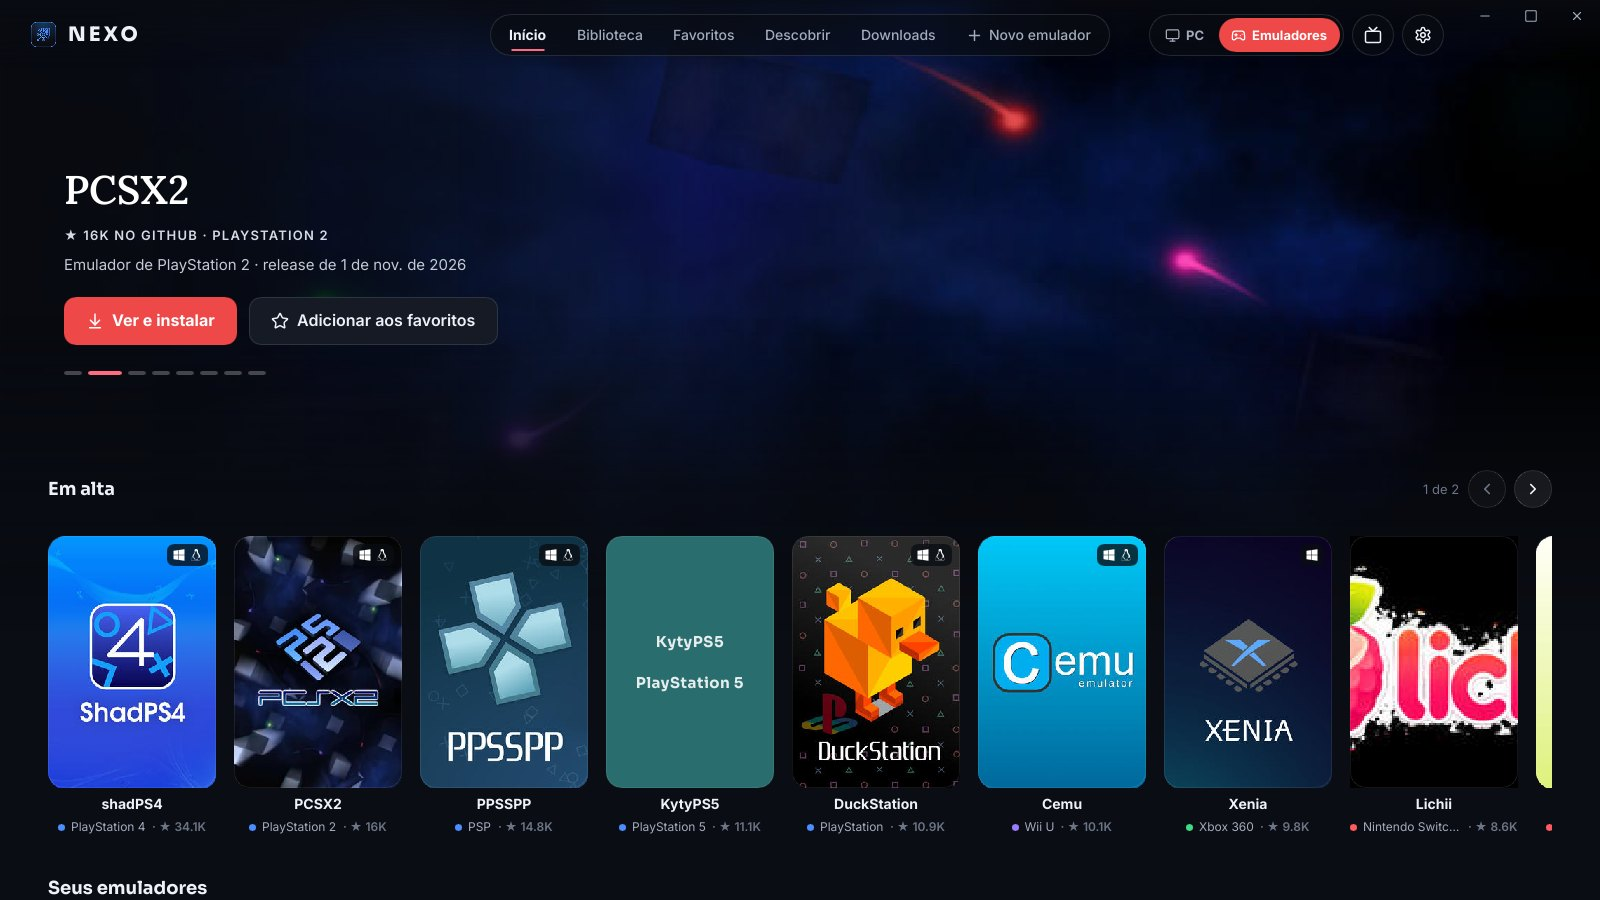
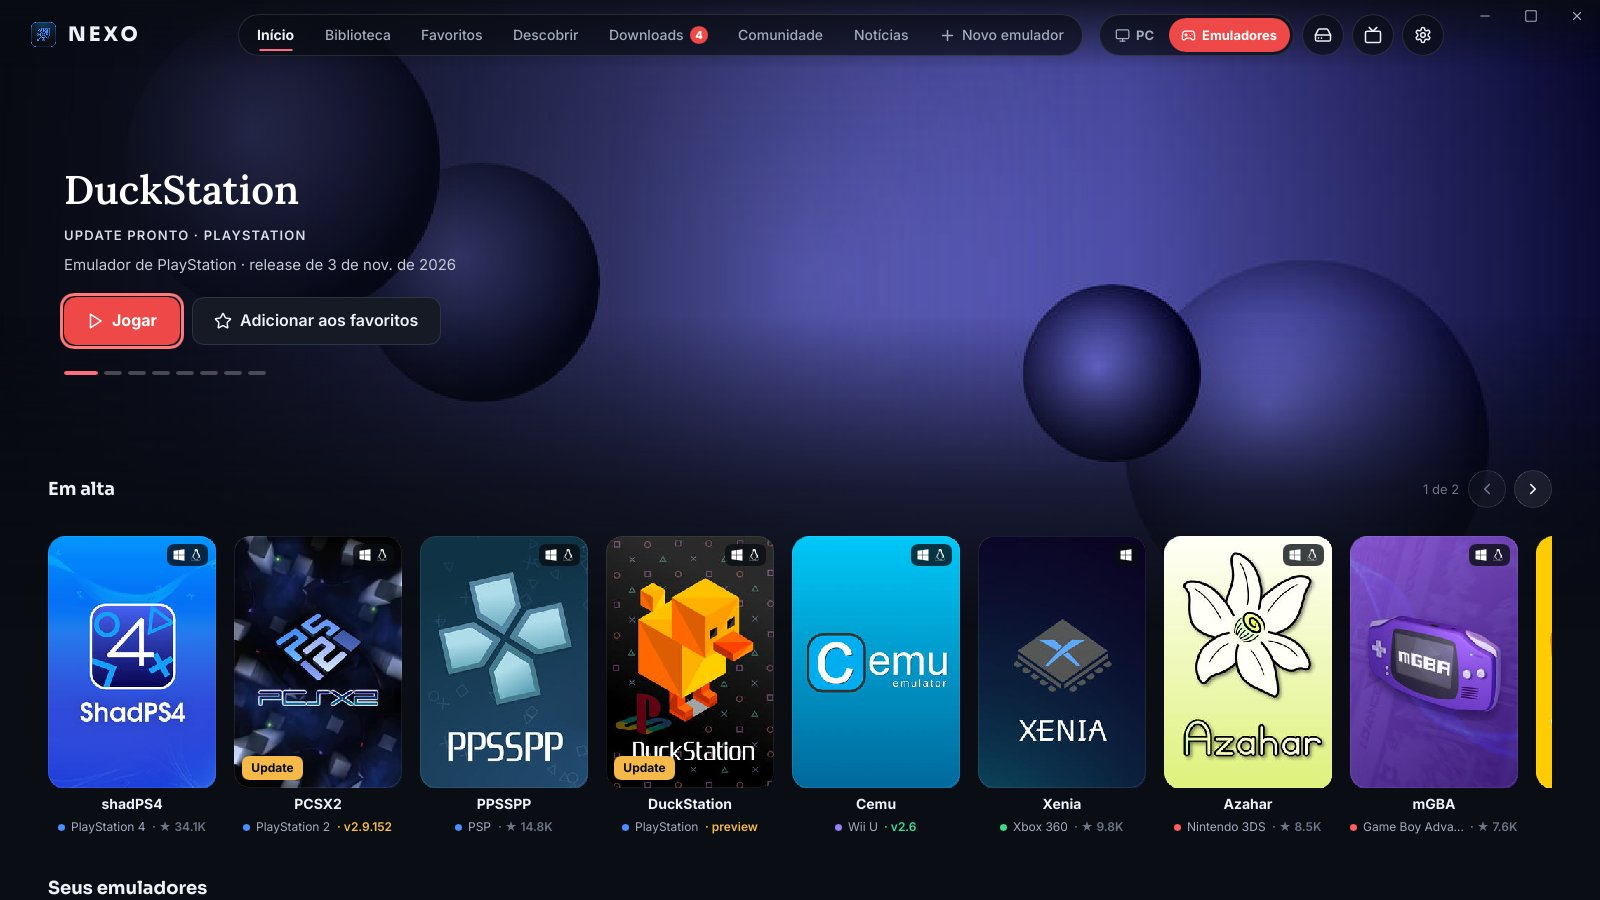
Nexo 1.5.0: aba Armazenamento e capturas novas

diff --git a/README.md b/README.md
@@ -28,7 +28,8 @@ atualizar e preparar o jogo.
 
 O **Nexo** junta tudo isso num launcher leve, para Windows e Linux:
 
-- um **catálogo com mais de 1.700 projetos** e mais de 20 emuladores, com capa, banner e estrelas;
+- um **catálogo com mais de 2.800 projetos de mais de 1.700 jogos** e mais de 20 emuladores, com capa,
+  banner e estrelas;
 - **instala e atualiza com um clique**, baixando sempre da release oficial de quem fez o projeto;
 - confere o **SHA-256** de cada arquivo e **nunca apaga os seus saves**;
 - tem **modo TV** com controle, para jogar no sofá ou no Steam Deck.
@@ -71,6 +72,15 @@ Codeberg e outros Forgejo/Gitea, para recomps, ports e emuladores.
 - **Adicionar à Steam** com a capa do jogo: o atalho abre pelo Nexo, com versão, Proton e tempo de jogo.
 - No Linux, jogos de Windows rodam pelo **Proton, umu-run ou Wine**.
 
+**Espaço em disco**
+- Guia **Armazenamento**: quanto o Nexo ocupa em cada disco, jogo por jogo e versão por versão, com
+  o caminho de cada pasta. Uma barra por disco separa jogos de PC, emuladores, versões antigas, saves,
+  downloads e o que é de outros programas.
+- **Detalhes de qualquer pasta**, como num analisador de disco: do maior para o menor, até o arquivo.
+- **Sugestões de limpeza** que nunca tocam nos saves: versões antigas que saem sem perder nada seu,
+  downloads guardados e sobras de instalações. Antes de apagar, a lista do que vai sair.
+- Antes de baixar, confere se o jogo cabe no disco.
+
 **Coleções e notícias**
 - **Coleções por franquia**: mais de 130 séries (Zelda, Mario, Sonic, Resident Evil...), cada uma
   com os seus jogos e, em cada jogo, os recomps e ports que existem.
@@ -93,16 +103,22 @@ Codeberg e outros Forgejo/Gitea, para recomps, ports e emuladores.
 | Descobrir | Página do jogo |
 |---|---|
 | ![Descobrir](docs/capturas/descobrir.jpg) | ![Página do jogo](docs/capturas/jogo.jpg) |
-| **Emuladores** | **Downloads** |
-| ![Emuladores](docs/capturas/inicio-emuladores.jpg) | ![Downloads](docs/capturas/downloads.jpg) |
+| **Biblioteca** | **Downloads** |
+| ![Biblioteca](docs/capturas/biblioteca.jpg) | ![Downloads](docs/capturas/downloads.jpg) |
+| **Coleções** | **Notícias** |
+| ![Coleções](docs/capturas/colecoes.jpg) | ![Notícias](docs/capturas/noticias.jpg) |
+| **Emuladores** | **Modo TV** |
+| ![Emuladores](docs/capturas/inicio-emuladores.jpg) | ![Modo TV](docs/capturas/modo-tv.jpg) |
 
 **Todos os projetos de um jogo, do mais recomendado ao menos**
 
 ![Projetos de um jogo](docs/capturas/projetos.jpg)
 
-**Modo TV**
+**Armazenamento: quanto cada jogo ocupa e o que dá para liberar**
 
-![Modo TV](docs/capturas/modo-tv.jpg)
+![Armazenamento](docs/capturas/armazenamento.jpg)
+
+![Armazenamento, jogo por jogo](docs/capturas/armazenamento-jogos.jpg)
 
 ## Como instalar
 
@@ -161,7 +177,7 @@ abra uma *issue* aqui.
 ## Linha de comando
 
 Junto vem o `nexo-cli`, para scripts e servidores: `nexo-cli ajuda` lista tudo. Os principais são `lista`,
-`instalar <id>`, `verificar`, `atualizar`, `jogar <id>` e `remover <id>`.
+`instalar <id>`, `verificar`, `atualizar`, `jogar <id>`, `remover <id>` e `espaco`.
 
 ## Créditos e licença
 

diff --git a/CHANGELOG.md b/CHANGELOG.md
@@ -6,6 +6,46 @@ O Nexo instalado avisa quando sai uma versão nova e só atualiza com o seu OK.
 
 *English summary at the end of each version.*
 
+## [1.5.0] — 16/11/2026
+
+### Novidades
+- **Armazenamento**: nova guia (o botão de disco na barra de cima) que mostra quanto o Nexo ocupa em
+  cada disco, jogo por jogo e versão por versão.
+  - **Por disco**: uma barra para cada disco com o que é jogo de PC, emulador, versão antiga, saves e
+    backups, downloads e dumps, o que é de outros programas e o espaço livre.
+  - **Jogo por jogo**: os projetos do mesmo jogo ficam juntos. Abrindo um jogo, aparece cada versão
+    (a em uso e as antigas), o preparo e o jogo montado, os backups dos saves e o resto da pasta, com
+    o caminho, o tamanho e quantos arquivos tem. Filtro por jogos de PC ou emuladores.
+  - **Detalhes de uma pasta**, como num analisador de disco: o que tem dentro, do maior para o
+    menor, entrando nas subpastas até o arquivo, e o botão para abrir a pasta.
+  - **Sugestões de limpeza**: versões antigas que saem sem perder nada seu, downloads guardados,
+    downloads que pararam no meio e sobras de instalações interrompidas. Nada sai sem uma janela
+    mostrando antes a lista do que vai ser apagado, e os saves nunca entram.
+  - Também mostra as pastas que não são de nenhum jogo instalado (sobras de jogos desinstalados) e
+    um jogo que ficou com pastas em dois lugares depois de a biblioteca mudar de disco. Essas o Nexo
+    só mostra: você abre e decide.
+  - A medição roda em segundo plano e fica guardada: a guia abre na hora e mede de novo quando a
+    biblioteca muda ou no botão **Medir de novo**.
+- `nexo-cli espaco`: o mesmo relatório na linha de comando.
+
+### Melhorias
+- **Aviso de pouco espaço**: antes de baixar, o Nexo confere se cabem o download e o jogo
+  extraído. Se não couber, avisa na hora, em vez de o download falhar no meio.
+
+### English
+New **Storage** tab (the drive button on the top bar): how much Nexo takes up on each drive, game by
+game and version by version. A bar per drive splits PC games, emulators, old versions, saves and
+backups, downloads and dumps, other programs and free space. **Game by game** groups each game's
+projects and lists every version (in use and old), preparation data, save backups and the rest of
+the folder, with path, size and file count, filtered by PC games or emulators. **Folder details**
+work like a disk analyzer: contents from largest to smallest, down to the file. **Cleanup
+suggestions** cover old versions that can go without losing anything of yours, kept and unfinished
+downloads and leftovers from interrupted installs; nothing is deleted without a window listing what
+will go, and saves are never included. Folders that belong to no installed game, and games left in
+two places after the library moved, are shown but never deleted. Measuring runs in the background and
+is saved, so the tab opens instantly. Also `nexo-cli espaco`, and a **low space warning** before a
+download that wouldn't fit.
+
 ## [1.4.0] — 15/11/2026
 
 ### Novidades

diff --git a/README.en.md b/README.en.md
@@ -28,7 +28,7 @@ to install, update and set up the game.
 
 **Nexo** brings all of that together in a lightweight launcher for Windows and Linux:
 
-- a **catalog of 1,700+ projects** and 20+ emulators, with covers, banners and stars;
+- a **catalog of 2,800+ projects for 1,700+ games** and 20+ emulators, with covers, banners and stars;
 - **one-click install and updates**, always downloaded from the official release of each project;
 - **SHA-256 checks** on every file, and it **never deletes your saves**;
 - a **TV mode** with full controller support, for the couch or the Steam Deck.
@@ -72,6 +72,15 @@ Forgejo/Gitea hosts, for recomps, ports and emulators.
   play time.
 - On Linux, Windows-only games run through **Proton, umu-run or Wine**.
 
+**Disk space**
+- **Storage** tab: how much Nexo takes up on each drive, game by game and version by version, with
+  each folder's path. A bar per drive splits PC games, emulators, old versions, saves, downloads and
+  other programs.
+- **Details of any folder**, like a disk analyzer: largest first, down to the file.
+- **Cleanup suggestions** that never touch saves: old versions that can go without losing anything of
+  yours, kept downloads and install leftovers. Before deleting, a list of what will go.
+- Before downloading, it checks the game fits on the drive.
+
 **Collections and news**
 - **Collections by franchise**: 130+ series (Zelda, Mario, Sonic, Resident Evil...), each with its
   games and, for each game, the recomps and ports that exist.
@@ -94,16 +103,22 @@ Forgejo/Gitea hosts, for recomps, ports and emulators.
 | Discover | Game page |
 |---|---|
 | ![Discover](docs/capturas/descobrir.jpg) | ![Game page](docs/capturas/jogo.jpg) |
-| **Emulators** | **Downloads** |
-| ![Emulators](docs/capturas/inicio-emuladores.jpg) | ![Downloads](docs/capturas/downloads.jpg) |
+| **Library** | **Downloads** |
+| ![Library](docs/capturas/biblioteca.jpg) | ![Downloads](docs/capturas/downloads.jpg) |
+| **Collections** | **News** |
+| ![Collections](docs/capturas/colecoes.jpg) | ![News](docs/capturas/noticias.jpg) |
+| **Emulators** | **TV mode** |
+| ![Emulators](docs/capturas/inicio-emuladores.jpg) | ![TV mode](docs/capturas/modo-tv.jpg) |
 
 **Every project for a game, from most to least recommended**
 
 ![Projects for a game](docs/capturas/projetos.jpg)
 
-**TV mode**
+**Storage: how much each game takes up and what you can free**
 
-![TV mode](docs/capturas/modo-tv.jpg)
+![Storage](docs/capturas/armazenamento.jpg)
+
+![Storage, game by game](docs/capturas/armazenamento-jogos.jpg)
 
 ## Install
 
@@ -162,7 +177,7 @@ repository link: it works right away, in your Nexo. If you'd like it in everyone
 ## Command line
 
 Nexo ships with `nexo-cli` for scripts and servers: `nexo-cli ajuda` lists everything. The main commands
-are `lista`, `instalar <id>`, `verificar`, `atualizar`, `jogar <id>` and `remover <id>`.
+are `lista`, `instalar <id>`, `verificar`, `atualizar`, `jogar <id>`, `remover <id>` and `espaco`.
 
 ## Credits and license
 
